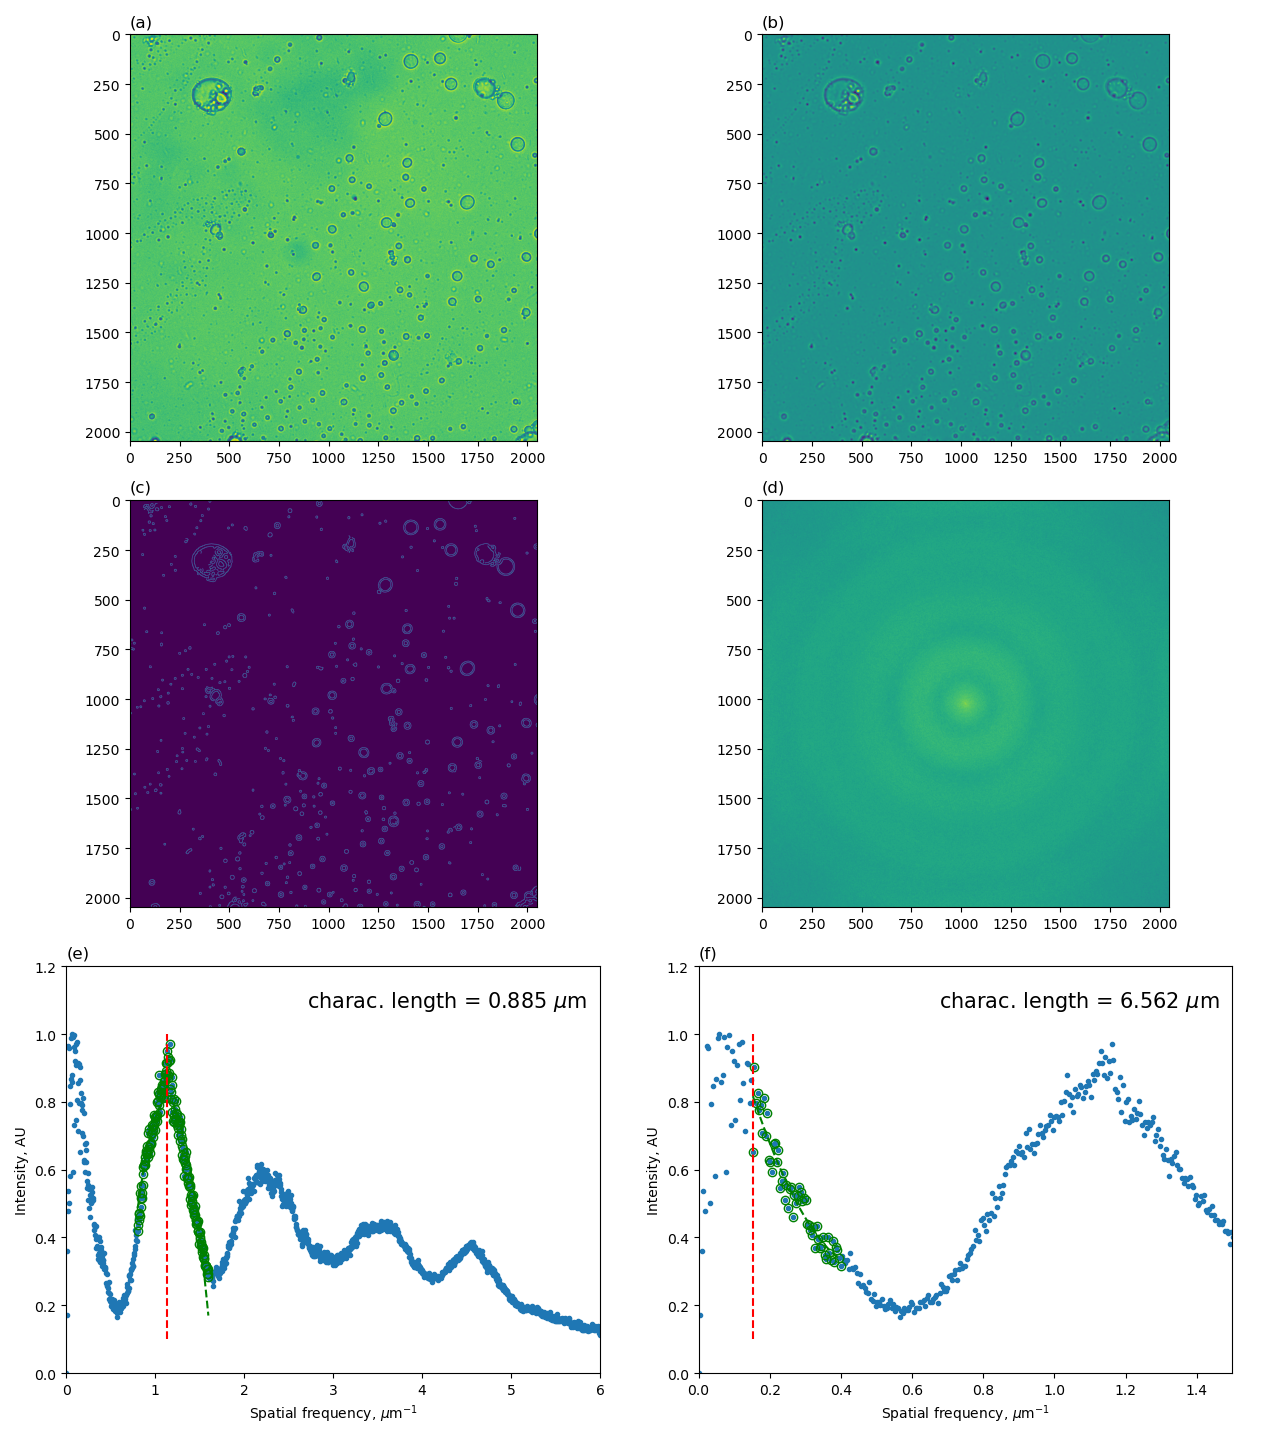
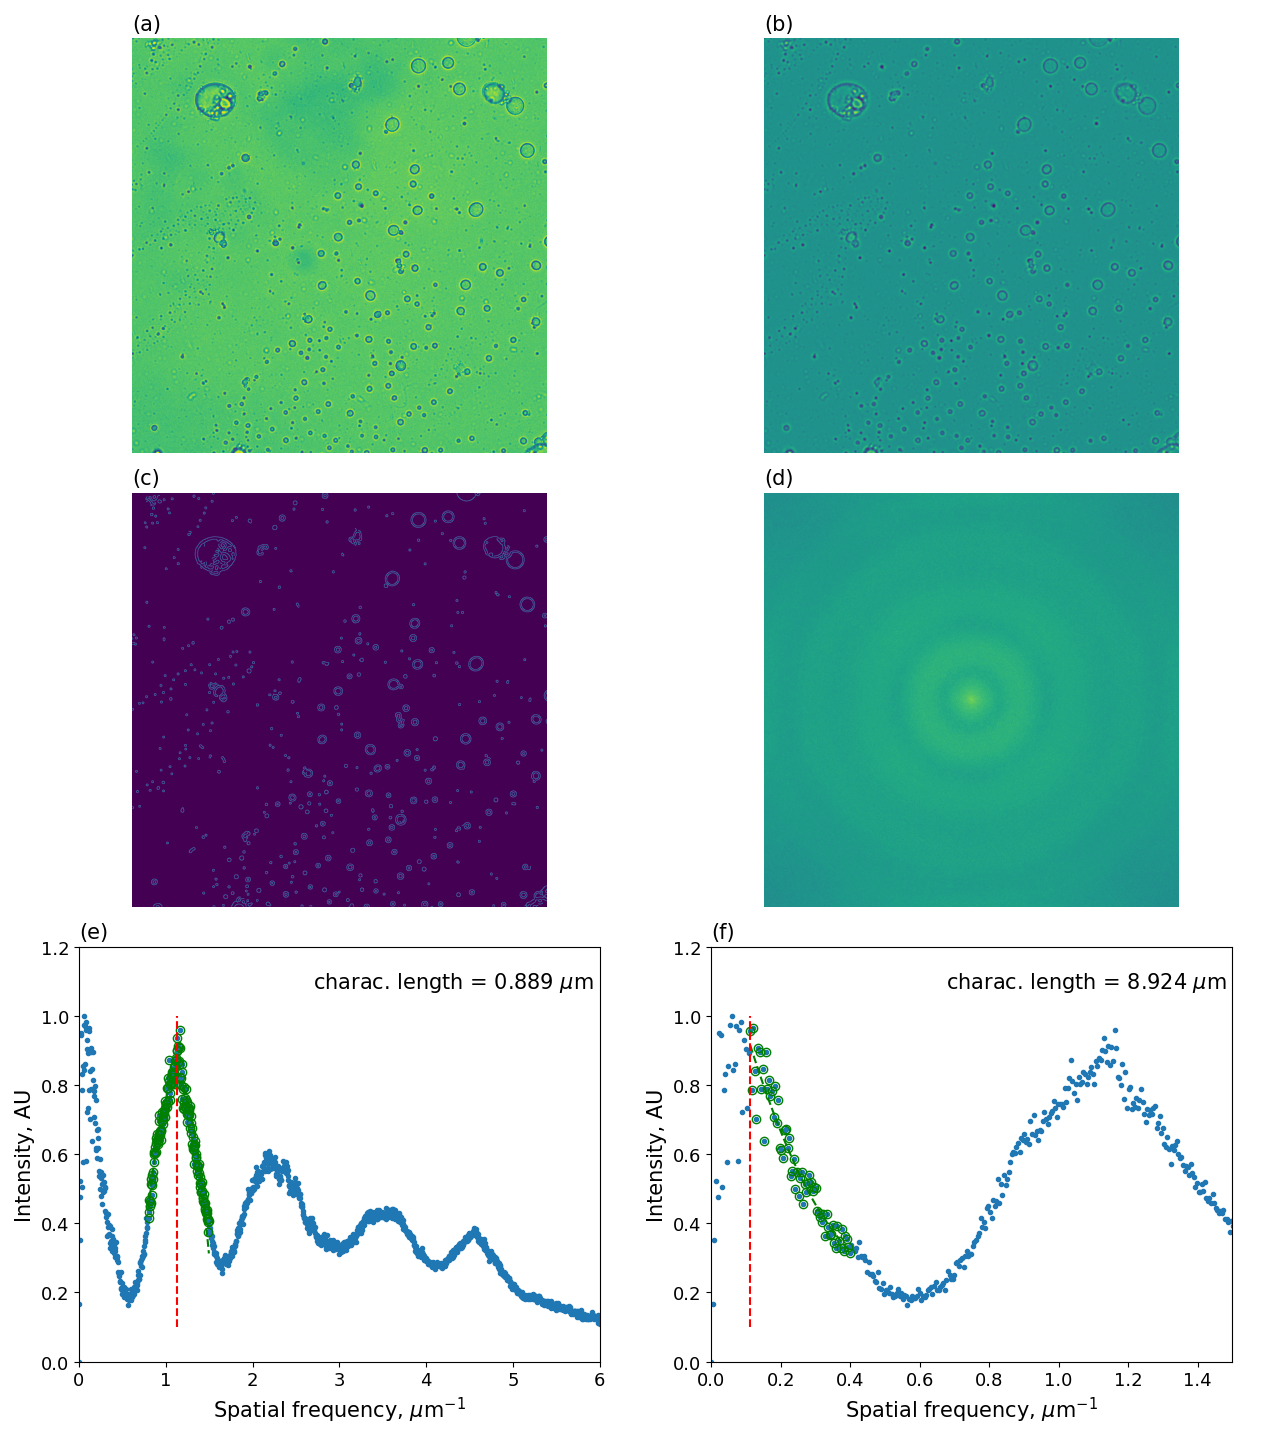
updated summary figures for cnc bubble emulsions test case

diff --git a/test_cases/experimental_surface_images/cnc_emulsion_bubbles/src/characteristic_length.py b/test_cases/experimental_surface_images/cnc_emulsion_bubbles/src/characteristic_length.py
@@ -224,7 +224,7 @@ if int(POP_NUM == 2):
     axs[2,1].set_xlabel("Spatial frequency, $\mu$m$^{-1}$", fontsize=TITLEFONT)
     axs[2,1].annotate('charac. length = ' + str(np.around(1/pop2_feature_size[0],decimals=3)) + ' $\mu$m',
                     xy=(0.45,0.9), xycoords='axes fraction', fontsize=TEXTFONT)
-    axs[2,1].set_xlim([0,6])
+    axs[2,1].set_xlim([0,1.5])
     axs[2,1].set_ylim([0,1.2])
     axs[2,1].tick_params(axis='both', which='major', labelsize=TICKSFONT)
 else:
@@ -317,7 +317,7 @@ if int(POP_NUM == 2):
     axs.set_xlabel("Spatial frequency, $\mu$m$^{-1}$", fontsize=TITLEFONT)
     axs.annotate('charac. length = ' + str(np.around(1/pop2_feature_size[0],decimals=3)) + ' $\mu$m',
                     xy=(0.45,0.9), xycoords='axes fraction', fontsize=TEXTFONT)
-    axs.set_xlim([0,6])
+    axs.set_xlim([0,1.5])
     axs.set_ylim([0,1.2])
     
     f.tight_layout()
